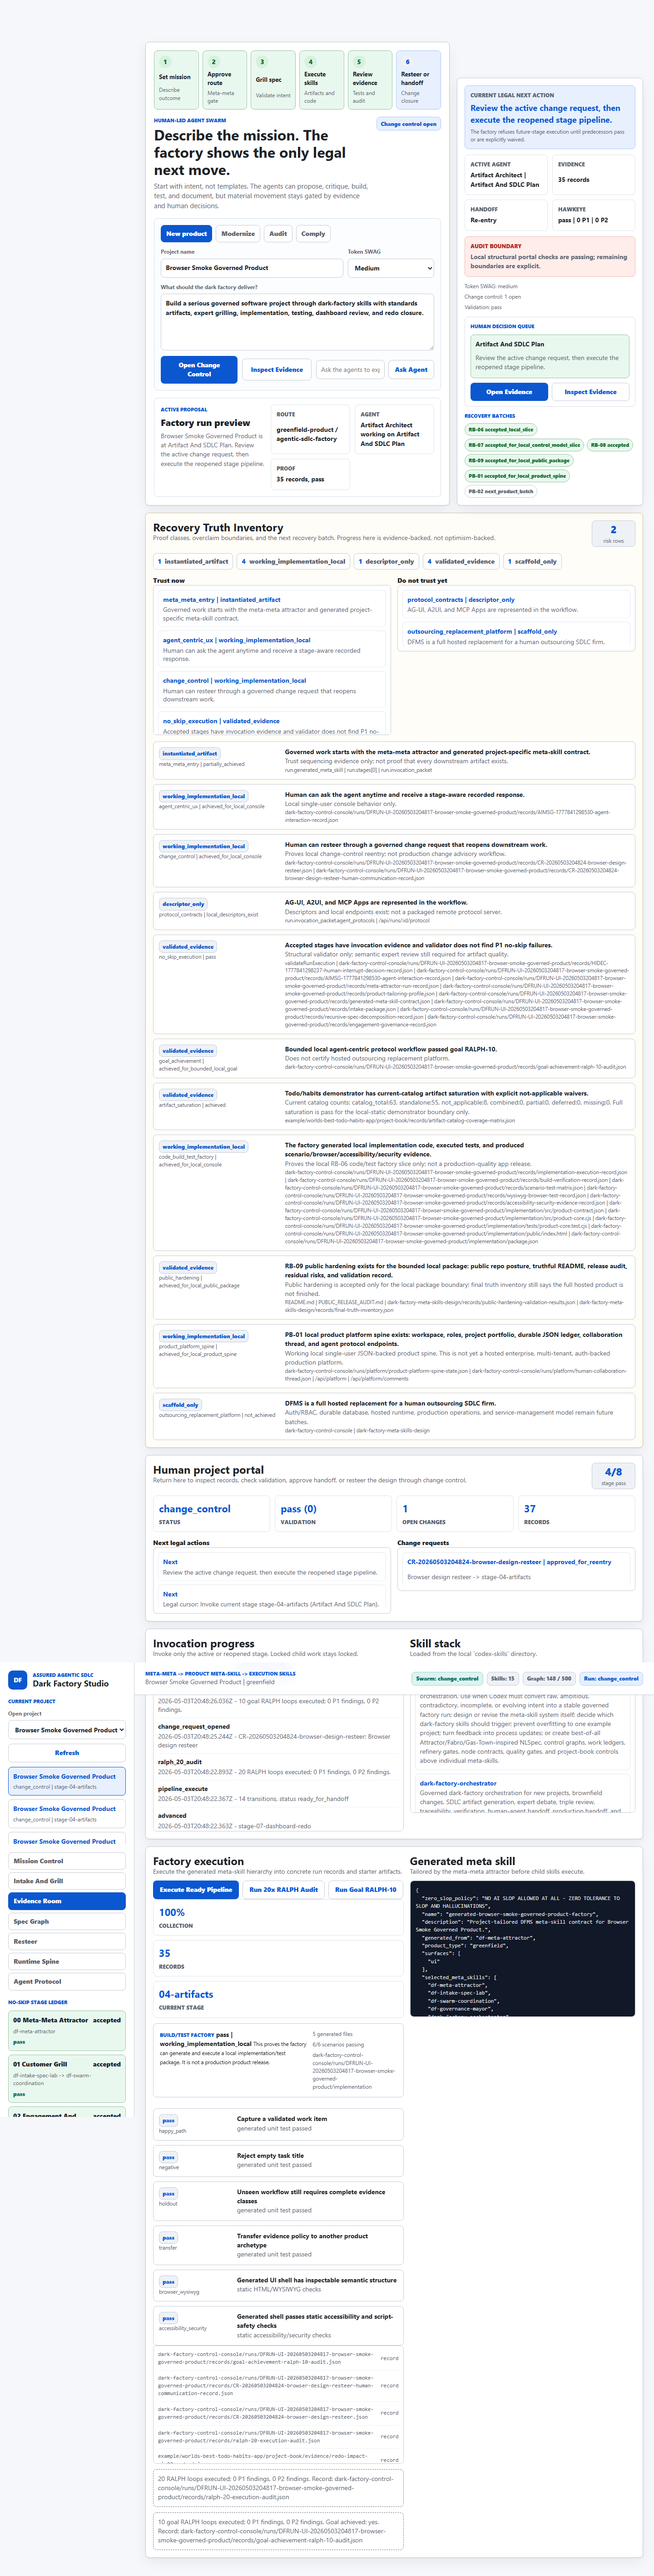
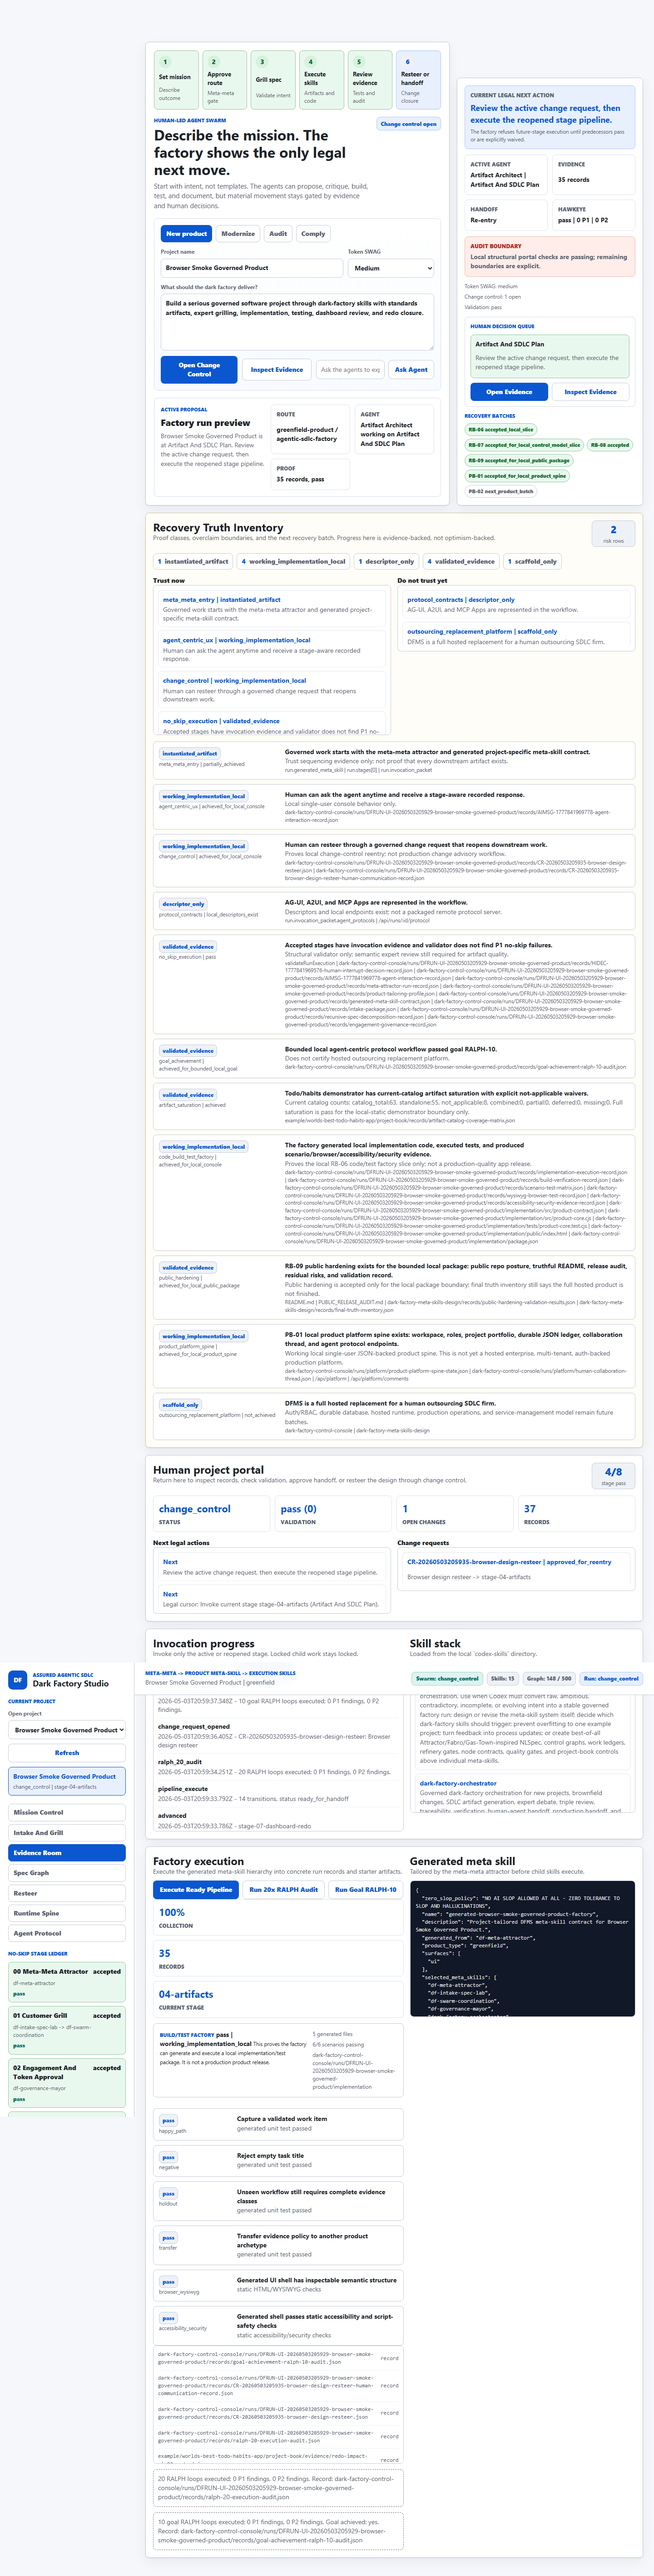
Tighten mobile agentic UX journey

Changed region(s): [[0.0, 0.6871, 0.1875, 0.8121]]

diff --git a/dark-factory-control-console/public/styles.css b/dark-factory-control-console/public/styles.css
@@ -117,6 +117,25 @@ strong {
   font-weight: 900;
 }
 
+.brand-mark.mini {
+  width: 30px;
+  height: 30px;
+  border-radius: 8px;
+  font-size: 11px;
+}
+
+.topbar-title {
+  display: grid;
+  gap: 2px;
+}
+
+.topbar-mobile-brand {
+  display: none;
+  align-items: center;
+  gap: 9px;
+  font-weight: 900;
+}
+
 .eyebrow,
 .studio-kicker,
 .breadcrumb,
@@ -267,7 +286,7 @@ strong {
   border: 1px solid var(--outline);
   border-radius: var(--radius);
   padding: 10px;
-  background: #fbfcff;
+  background: linear-gradient(180deg, #ffffff 0%, #f8fbff 100%);
 }
 
 .runway-step span {
@@ -330,7 +349,7 @@ strong {
   gap: 12px;
   border: 1px solid #d6deec;
   border-radius: var(--radius);
-  background: #fbfdff;
+  background: linear-gradient(180deg, #ffffff 0%, #f7fbff 100%);
   padding: 14px;
 }
 
@@ -1560,6 +1579,28 @@ textarea:focus {
     align-items: stretch;
   }
 
+  .topbar {
+    gap: 12px;
+    padding: 12px;
+  }
+
+  .topbar-mobile-brand {
+    display: flex;
+  }
+
+  .breadcrumb {
+    font-size: 10px;
+  }
+
+  .status-strip {
+    justify-content: flex-start;
+  }
+
+  .status-strip #skillCount,
+  .status-strip #graphCount {
+    display: none;
+  }
+
   .workspace {
     padding: 12px;
   }
@@ -1569,7 +1610,6 @@ textarea:focus {
   }
 
   .workspace-tabs.vertical,
-  .runway,
   .mission-grid,
   .studio-action-row,
   .refine-strip,
@@ -1593,8 +1633,70 @@ textarea:focus {
     grid-template-columns: 1fr;
   }
 
+  .runway {
+    display: flex;
+    gap: 7px;
+    overflow-x: auto;
+    padding-bottom: 2px;
+    scroll-snap-type: x proximity;
+  }
+
+  .runway-step {
+    min-width: 124px;
+    min-height: 58px;
+    padding: 8px;
+    scroll-snap-align: start;
+  }
+
+  .runway-step span {
+    width: 22px;
+    height: 22px;
+    font-size: 11px;
+  }
+
+  .runway-step strong {
+    font-size: 12px;
+    line-height: 1.15;
+  }
+
+  .runway-step small {
+    display: none;
+  }
+
   .mission-header h2 {
-    font-size: 26px;
+    font-size: 24px;
+  }
+
+  .mission-header p {
+    display: none;
+  }
+
+  .mission-grid {
+    grid-template-columns: minmax(0, 1fr) 118px;
+  }
+
+  .mission-composer {
+    gap: 10px;
+  }
+
+  .mission-composer textarea {
+    min-height: 82px;
+    max-height: 96px;
+  }
+
+  .scenario-chip {
+    min-height: 34px;
+    padding: 6px 9px;
+  }
+
+  .button.large {
+    min-height: 42px;
+  }
+
+  .mission-panel,
+  .supervisor-pane,
+  .band {
+    padding: 12px;
   }
 
   .interrogation-protocol {

diff --git a/dark-factory-control-console/public/index.html b/dark-factory-control-console/public/index.html
@@ -45,7 +45,11 @@
 
     <div class="main-shell">
       <header class="topbar">
-        <div>
+        <div class="topbar-title">
+          <div class="topbar-mobile-brand" aria-label="Dark Factory Studio">
+            <span class="brand-mark mini" aria-hidden="true">DF</span>
+            <strong>Dark Factory Studio</strong>
+          </div>
           <div class="breadcrumb">Meta-meta -> product meta-skill -> execution skills</div>
           <p id="deckProjectName">No project selected</p>
         </div>

diff --git a/dark-factory-meta-skills-design/TASKS.md b/dark-factory-meta-skills-design/TASKS.md
@@ -94,6 +94,7 @@
 | `TB-20260503-043` | `accepted` | Implement RB-09 final Hawkeye/public hardening and full-product truth boundary | Codex | `CG-NODE-RALPH100-RB09-PUBLIC-HARDENING-001` | `WL-RALPH100-RB09-PUBLIC-HARDENING-001` | `KG:TB-20260503-043` | root `README.md`, `PUBLIC_RELEASE_AUDIT.md`, `71-rb09-final-hawkeye-public-hardening-record.md`, `72-full-product-gap-register-and-plan.md`, public-hardening records, validator, console truth update | `GATE-RALPH100-RB09-PUBLIC-HARDENING-001:pass-with-residual-risks` | public repo posture verified, secret scan passed, README truth updated, RALPH-100 accepted loops reached 100, portal moves remaining blocker to `PB-01`; unit and Playwright tests pass after validation | `PB-01` | RALPH-100 recovery program accepted for local/public package boundary; full hosted product remains future product work |
 | `TB-20260503-044` | `accepted` | Implement PB-01 local product platform spine | Codex | `CG-NODE-PB01-PRODUCT-SPINE-001` | `WL-PB01-PRODUCT-SPINE-001` | `KG:TB-20260503-044` | `/api/platform`, platform comments, Platform Spine UI, A2UI/MCP descriptors, truth inventory row, `73-pb01-product-platform-spine-record.md` | `GATE-PB01-PRODUCT-SPINE-001:pass-with-boundaries` | local product spine exposes workspace, roles, project spaces, collaboration thread, platform comments, and PB-02 truth boundary; unit and Playwright tests pass | `PB-02` | PB-01 accepted only for local product spine; hosted enterprise runtime remains open |
 | `TB-20260503-045` | `accepted` | Redesign the local control console UX around a guided agentic product workflow | Codex | `CG-NODE-PB01-UX-RESCUE-001` | `WL-PB01-UX-RESCUE-001` | `KG:TB-20260503-045` | `dark-factory-control-console/public/index.html`, `public/styles.css`, `public/app.js`, `tests/browser-console.test.cjs`, `74-agentic-product-ux-rescue-redesign-record.md`, `records/pb01-ux-redesign-record.json` | `GATE-PB01-UX-RESCUE-001:pass-with-boundaries` | first viewport now shows workflow runway, mission, legal next action, supervisor pane, decision queue, Hawkeye posture, evidence rooms, and mobile no-overflow evidence; module and Playwright tests pass | `PB-02` | local UI rescue slice accepted; full hosted product and deeper provider execution remain open |
+| `TB-20260503-046` | `accepted` | Browser-requested live journey and aesthetics audit with mobile first-viewport correction | Codex | `CG-NODE-PB01-LIVE-UX-AUDIT-001` | `WL-PB01-LIVE-UX-AUDIT-001` | `KG:TB-20260503-046` | `dark-factory-control-console/public/index.html`, `public/styles.css`, `tests/browser-console.test.cjs`, `artifacts/live-ux-audit-desktop.png`, `artifacts/live-ux-audit-mobile.png`, `74-agentic-product-ux-rescue-redesign-record.md`, `records/pb01-ux-redesign-record.json` | `GATE-PB01-LIVE-UX-AUDIT-001:pass-with-browser-use-fallback` | browser-use plugin was attempted but blocked by local Node `v22.16.0` requiring `>=v22.22.0`; Playwright live audit then found and fixed mobile runway dominance so brand, mission, and primary action are visible in the first mobile viewport without horizontal overflow | `PB-02` | local live UX audit slice accepted with explicit browser-use runtime boundary; hosted enterprise product remains open |
 
 ## Deferred And Retired Beads
 
@@ -984,6 +985,9 @@
 | `VAL-20260503-145` | `npm test` | PB-01 UX rescue backend regression | pass | module regression still proves legal-state, interrogation, artifact BOM, review engine, code/test factory, change control, truth inventory, and platform spine after UI rewrite | rerun after server or runtime contract changes |
 | `VAL-20260503-146` | `npm run test:browser` | PB-01 UX rescue WYSIWYG/browser regression | pass | Playwright proves mission screen, workflow runway, legal-next-action cockpit, runtime spine, end-to-end run flow, change request, platform comment, desktop no-overflow, and mobile no-overflow | keep as required UI/product regression |
 | `VAL-20260503-147` | visual screenshot review | PB-01 UX rescue desktop/mobile screenshots | pass-with-boundaries | desktop and mobile screenshots were inspected; mobile order was corrected so mission/workflow appears before navigation, and long record paths wrap | rerun after UI layout changes |
+| `VAL-20260503-148` | browser-use bootstrap attempt | Browser-requested in-app UX inspection path | blocked-with-fallback | browser-use plugin instructions were followed, but node_repl resolved Node `v22.16.0` and requires `>=v22.22.0`; this boundary is recorded and Playwright was used against the same live local URL instead | reattempt browser-use after Node runtime update |
+| `VAL-20260503-149` | `npm run test:browser` | mobile first-viewport UX regression after live journey audit | pass | Playwright asserts mobile workflow runway height stays below the contract, mission title appears early, primary action is reachable in the first viewport, and no horizontal overflow exists | rerun after mobile/responsive UI changes |
+| `VAL-20260503-150` | live Playwright screenshot audit | live console at `http://127.0.0.1:4187/` | pass-with-boundaries | live desktop and mobile screenshots generated after server restart; mobile measured `runwayHeight=60`, `titleTop=256.734375`, `primaryTop=708.046875`, `scrollWidth=viewport=390` | rerun before telling the user a visual fix is live |
 
 ## Change Log
 
@@ -1036,3 +1040,4 @@
 | 2026-05-03 | Codex | `TB-20260503-043` | Accepted RB-09 for final Hawkeye/public hardening of the bounded local package and moved the remaining blocker to PB-01 | User demanded full honesty about what was built, what was still missing, public hardening, and thorough Playwright-tested closure without declaring false victory | root README, public release audit, RB-09 record, final truth inventory, public-hardening validator, RALPH-100 report, console tests |
 | 2026-05-03 | Codex | `TB-20260503-044` | Implemented PB-01 local product platform spine and moved remaining product blocker to PB-02 hosted enterprise runtime | User repeated that this must be a full product, not a prototype or document package; PB-01 was the next legal product batch after RB-09 | `/api/platform`, platform comments, Platform Spine UI, A2UI/MCP descriptors, truth inventory row, unit/browser tests, `73-pb01-product-platform-spine-record.md` |
 | 2026-05-03 | Codex | `TB-20260503-045` | Rebuilt the local console UX as a guided agentic product workflow | User rejected the prior UI as confusing and demanded a legendary product/UX rescue with Playwright verification | mission-control first viewport, workflow runway, supervisor pane, product rescue brief, mobile order fix, no-overflow Playwright assertions, `74-agentic-product-ux-rescue-redesign-record.md` |
+| 2026-05-03 | Codex | `TB-20260503-046` | Tightened the live journey after the browser-requested UX/aesthetics audit | The live mobile first viewport still felt overloaded because the workflow runway stacked too tall and delayed the mission/action surface | compact mobile runway, mobile top-bar brand, hidden nonessential mobile counters, live Playwright screenshots, browser-use runtime boundary, `npm test`, `npm run test:browser` |

diff --git a/dark-factory-meta-skills-design/74-agentic-product-ux-rescue-redesign-record.md b/dark-factory-meta-skills-design/74-agentic-product-ux-rescue-redesign-record.md
@@ -69,6 +69,7 @@ The first viewport must answer these questions without the user reading document
 - Added Playwright assertions for workflow-runway clarity and desktop/mobile horizontal overflow.
 - Fixed a mobile overflow defect caused by long evidence record paths.
 - Reordered mobile layout so the mission/workflow appears before navigation and ledger material.
+- Added a mobile-first refinement after live journey inspection: the workflow runway is compact on mobile, the app brand appears in the mobile top bar, nonessential status chips are suppressed, the mission title appears early, and the primary action is reachable in the first viewport.
 
 ## UX Reviewer Panel
 
@@ -97,6 +98,8 @@ The first viewport must answer these questions without the user reading document
 | 13 | Mobile browser smoke passes. | Pass |
 | 14 | Horizontal overflow is rejected by Playwright. | Pass |
 | 15 | Long evidence paths wrap instead of breaking layout. | Pass |
+| 16 | Mobile workflow stepper does not consume the full first viewport. | Pass |
+| 17 | Mobile primary action is visible without hunting through navigation. | Pass |
 
 ## Validation Evidence
 
@@ -105,6 +108,8 @@ The first viewport must answer these questions without the user reading document
 - `npm test`
 - `npm run test:browser`
 - `python dark-factory-meta-skills-design/scripts/validate_tasks_md.py dark-factory-meta-skills-design/TASKS.md`
+- Browser-use plugin requested for inspection; plugin bootstrap failed in this session because the Node REPL runtime resolved to Node `v22.16.0` while browser-use required `>= v22.22.0`. Playwright against the same live local URL was used as the fallback inspection and verification surface.
+- Live screenshot audit: `dark-factory-control-console/artifacts/live-ux-audit-desktop.png` and `dark-factory-control-console/artifacts/live-ux-audit-mobile.png`.
 
 ## Remaining Product Gap
 
